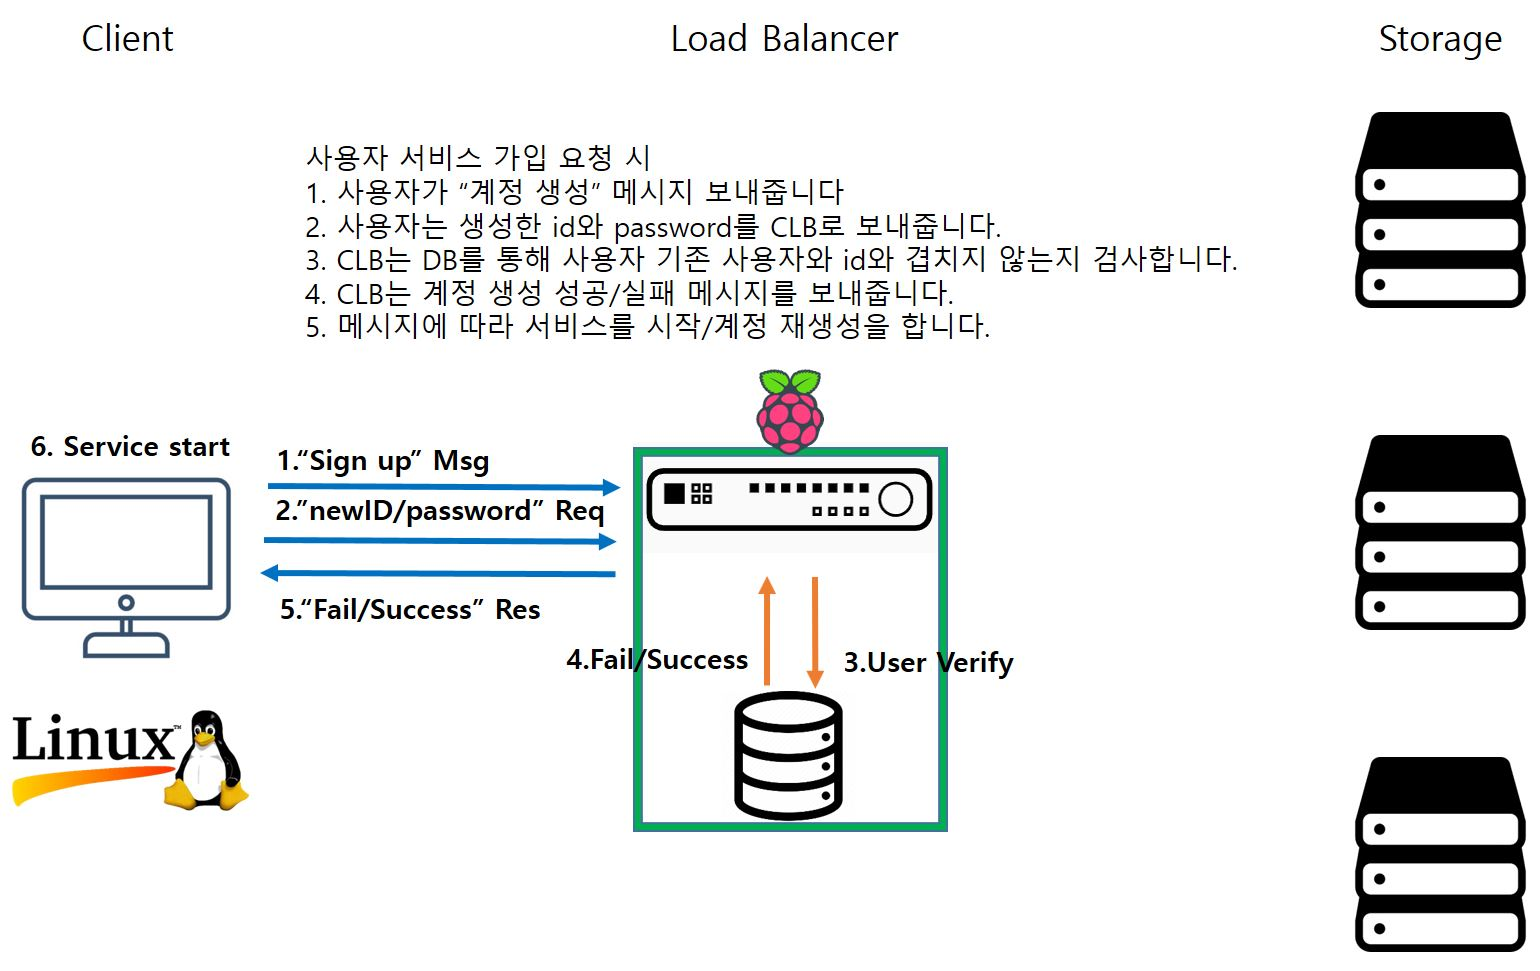
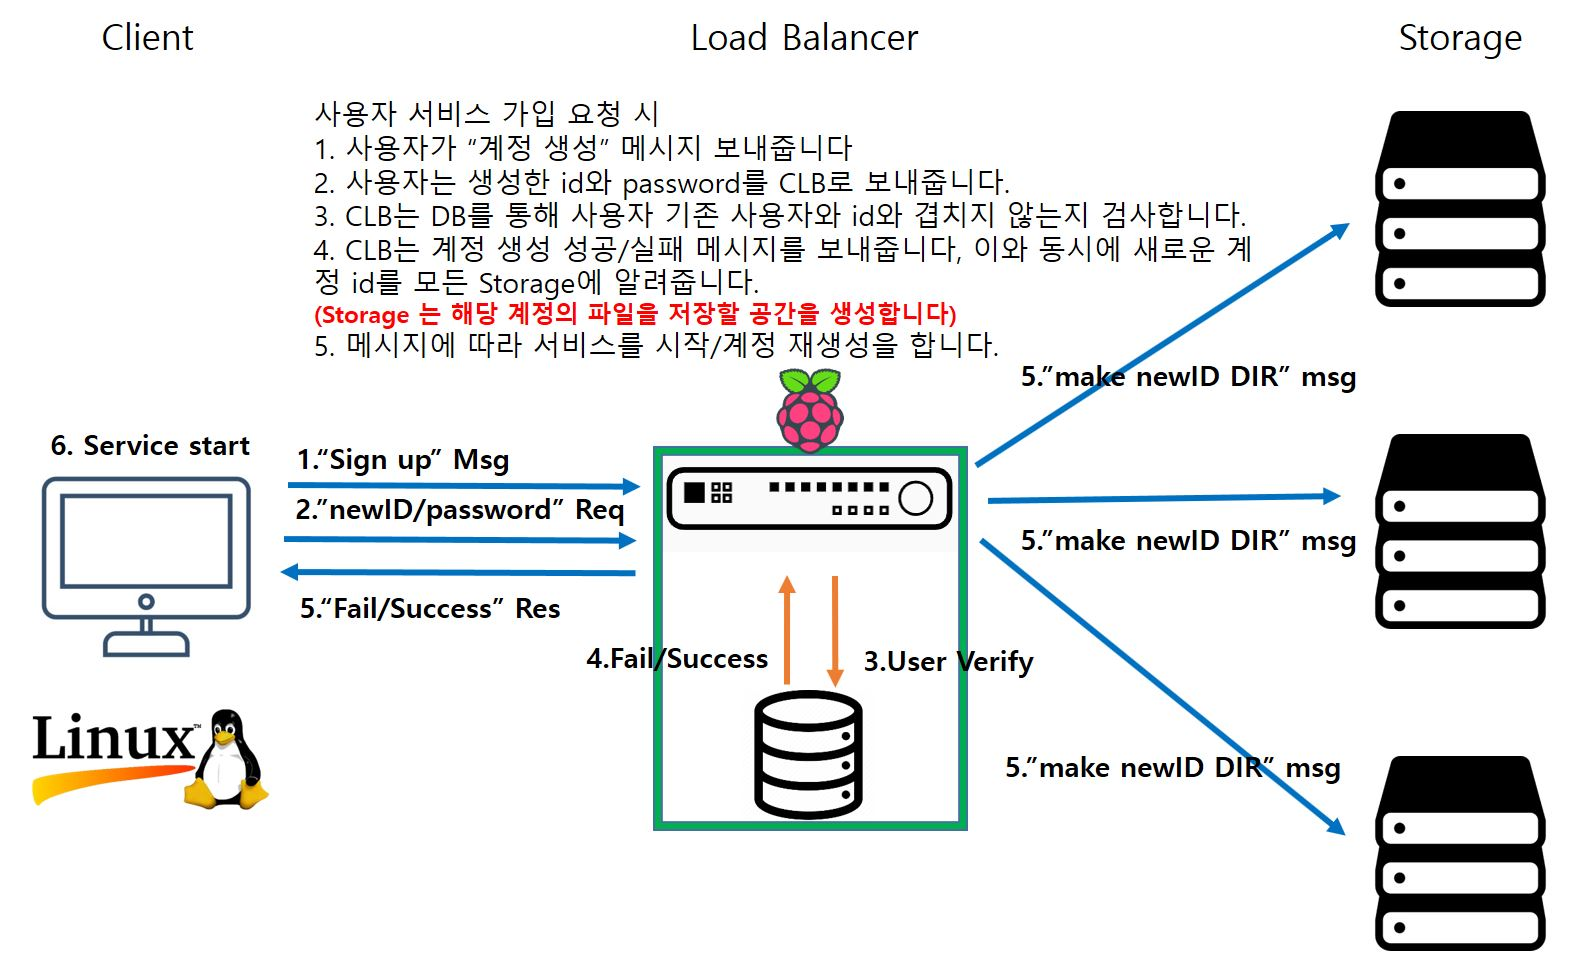
README.md

diff --git a/README.md b/README.md
@@ -46,7 +46,7 @@
 ---
 
 ## _2-2. Service Diagram_
->__ 서비스 마다 동작 요청/응답 메세지와 동작 시퀀스에 대한 다이어그램입니다.__
+>__서비스 마다 동작 요청/응답 메세지와 동작 시퀀스에 대한 다이어그램입니다.__
 
 **1. 로그인(Sign In)**
 - 이미 서비스에 가입된 사용자에 대한 로그인 동작입니다.
@@ -62,15 +62,12 @@
 
 **4. 파일 다운로드(File Download)**
 - 사용자가 스토리지로 부터 파일 다운로드 요청 시 동작입니다.
-- 
+![Image](./_readmeImg/downloadfile.JPG)
 
 **5. 파일 삭제(File Remove)**
 - 스토리지에 업로드(저장)된 파일을 삭제 요청 시 동작입니다.
-- 
+![Image](./_readmeImg/removefile.JPG)
 
 **6. 파일리스트 조회(Lookup File list)**
 - 사용자가 업로드한 파일의 리스트 요청 시 동작입니다.
-- 
-
-
-
+![Image](./_readmeImg/filelist.JPG)
